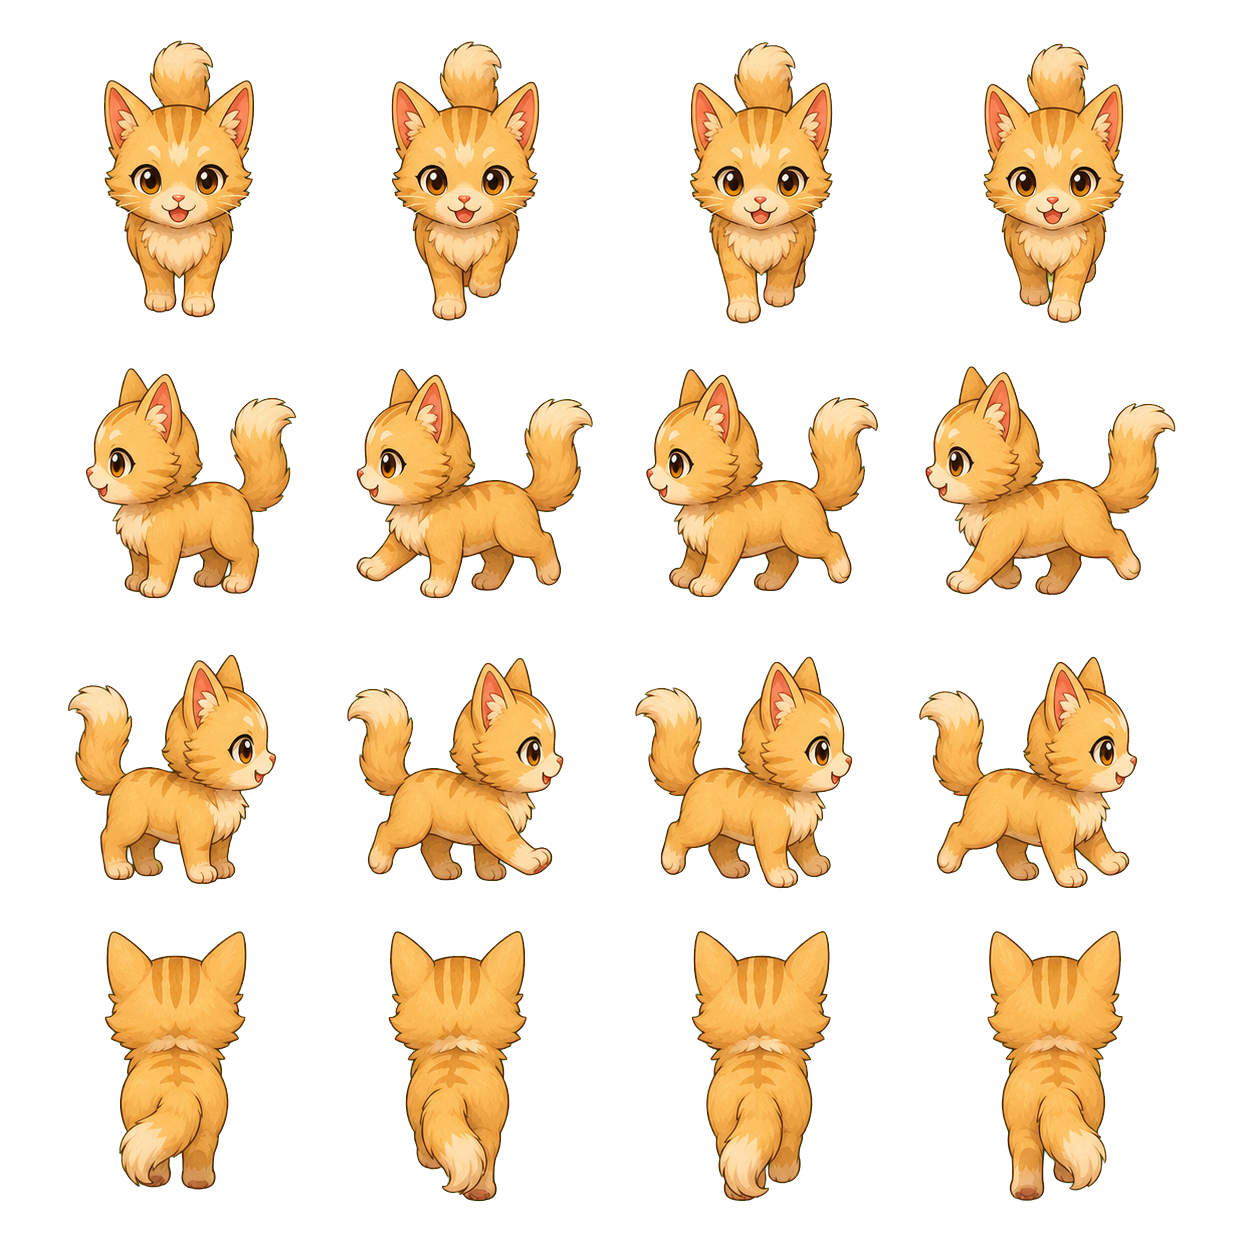
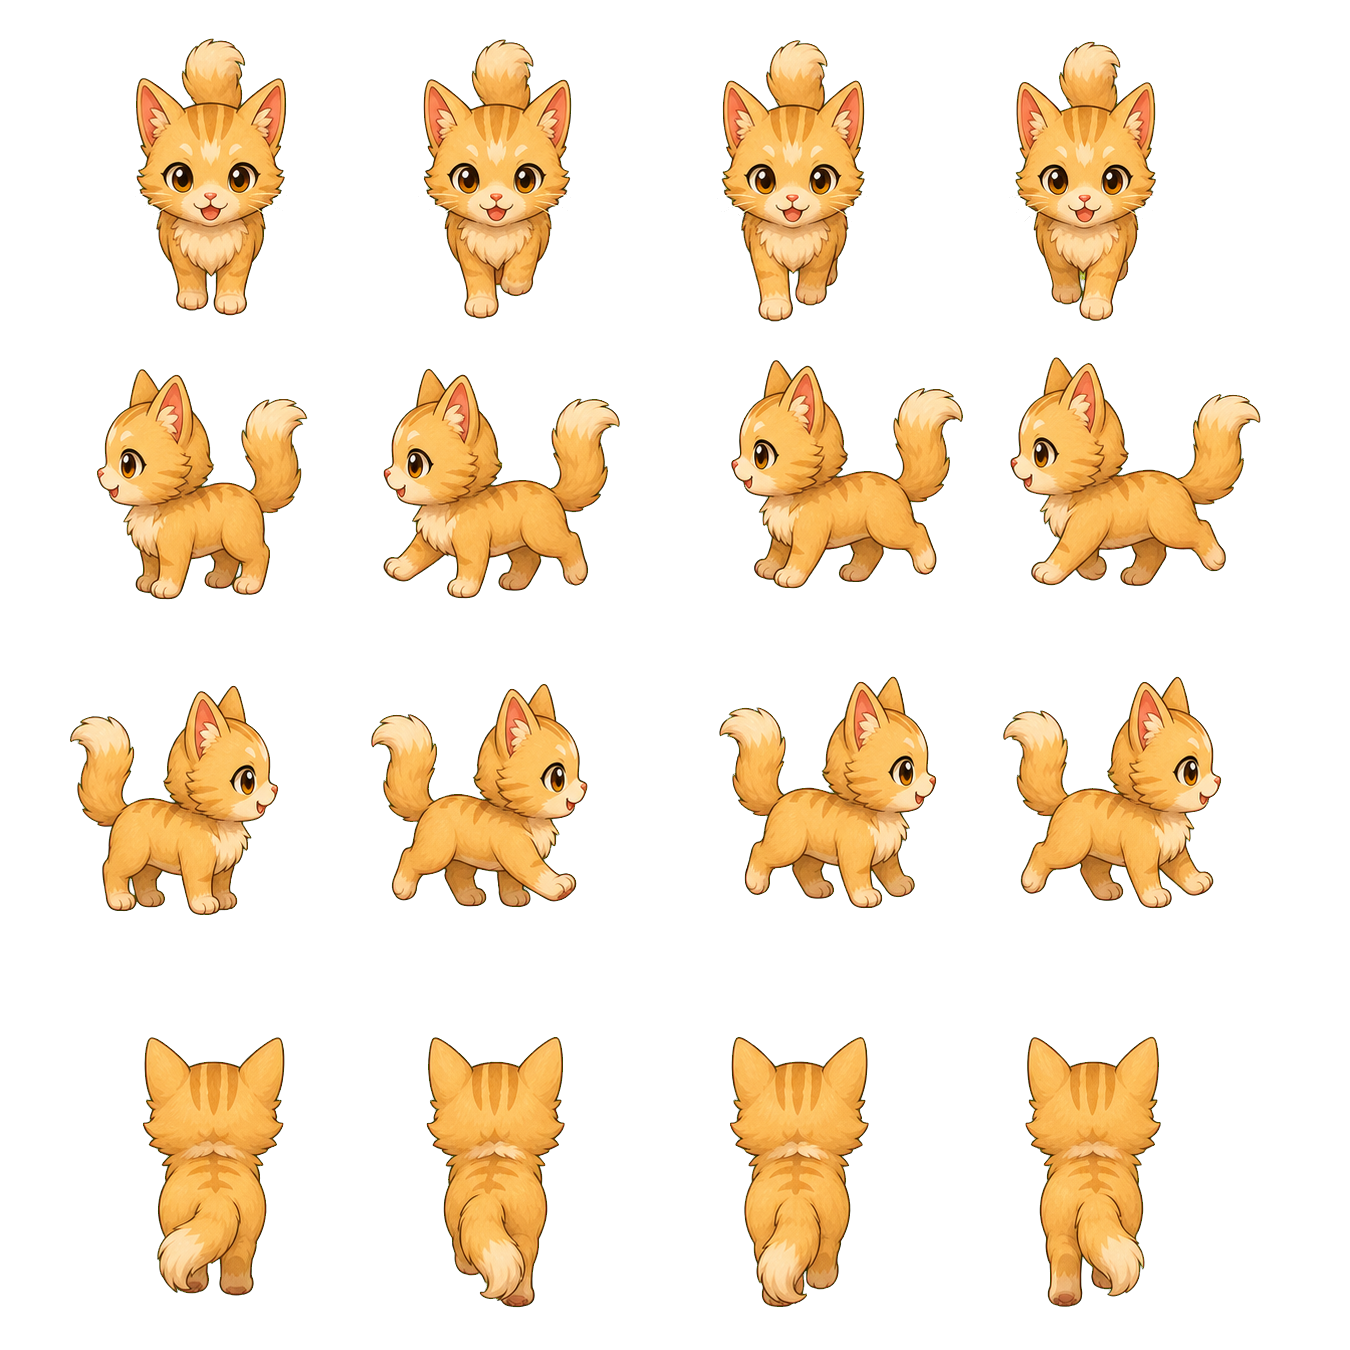
updated memory

diff --git a/src/local-content.js b/src/local-content.js
@@ -116,7 +116,7 @@ window.PASTEL_TRAILS_LOCAL_CONTENT = {
               "sheetId": "pawlit-classic-walksheet"
             },
             "overworld": {
-              "sheetId": "assets-monsters-pawlit-pawlit-blue-walksheet",
+              "sheetId": "assets-monsters-pawlit-pawlit-tide-walksheet",
               "rows": {
                 "down": 0,
                 "left": 1,
@@ -1774,9 +1774,131 @@ window.PASTEL_TRAILS_LOCAL_CONTENT = {
         "frameHeight": 313,
         "offsetX": 0,
         "offsetY": 0,
-        "renderWidth": null,
-        "rowOffsets": [],
-        "frameOffsets": []
+        "renderWidth": 100,
+        "rowOffsets": [
+          {
+            "x": 0,
+            "y": 19
+          },
+          {
+            "x": 0,
+            "y": 18
+          },
+          {
+            "x": 0,
+            "y": 38
+          },
+          {
+            "x": 0,
+            "y": 96
+          }
+        ],
+        "frameOffsets": [
+          [
+            {
+              "x": 22,
+              "y": 0,
+              "width": 0,
+              "height": 0
+            },
+            {
+              "x": -31,
+              "y": 0,
+              "width": 0,
+              "height": 0
+            },
+            {
+              "x": -70,
+              "y": 0,
+              "width": 0,
+              "height": 0
+            },
+            {
+              "x": -106,
+              "y": 0,
+              "width": 0,
+              "height": 0
+            }
+          ],
+          [
+            {
+              "x": 43,
+              "y": 0,
+              "width": 0,
+              "height": 0
+            },
+            {
+              "x": 0,
+              "y": 0,
+              "width": 0,
+              "height": 0
+            },
+            {
+              "x": -41,
+              "y": 0,
+              "width": 0,
+              "height": 0
+            },
+            {
+              "x": -53,
+              "y": 0,
+              "width": 0,
+              "height": 0
+            }
+          ],
+          [
+            {
+              "x": 15,
+              "y": 0,
+              "width": 0,
+              "height": 0
+            },
+            {
+              "x": -20,
+              "y": 0,
+              "width": 0,
+              "height": 0
+            },
+            {
+              "x": -10,
+              "y": 0,
+              "width": 0,
+              "height": 0
+            },
+            {
+              "x": -5,
+              "y": 0,
+              "width": 0,
+              "height": 0
+            }
+          ],
+          [
+            {
+              "x": 22,
+              "y": 0,
+              "width": 0,
+              "height": 0
+            },
+            {
+              "x": -21,
+              "y": 0,
+              "width": 0,
+              "height": 0
+            },
+            {
+              "x": -46,
+              "y": 0,
+              "width": 0,
+              "height": 0
+            },
+            {
+              "x": -86,
+              "y": 0,
+              "width": 0,
+              "height": 0
+            }
+          ]
+        ]
       },
       {
         "id": "assets-monsters-pawlit-pawlit-blue-walksheet",
